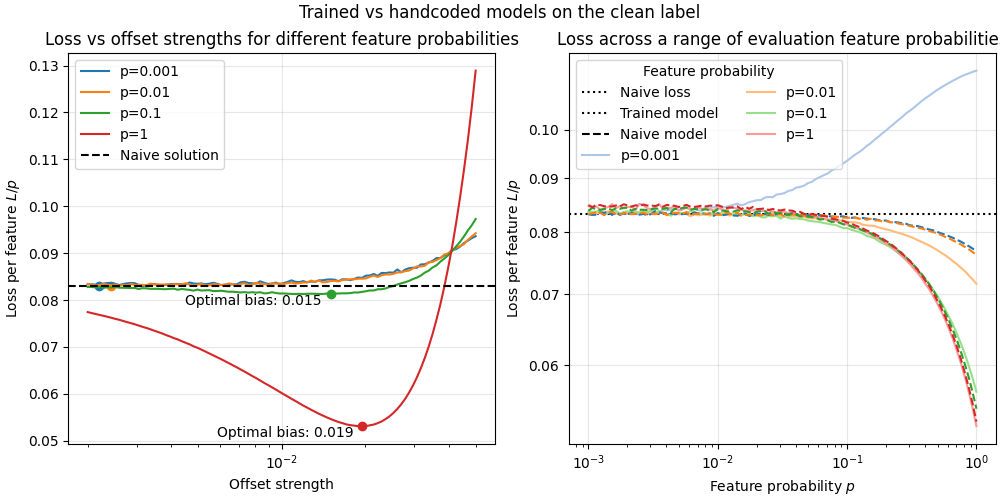
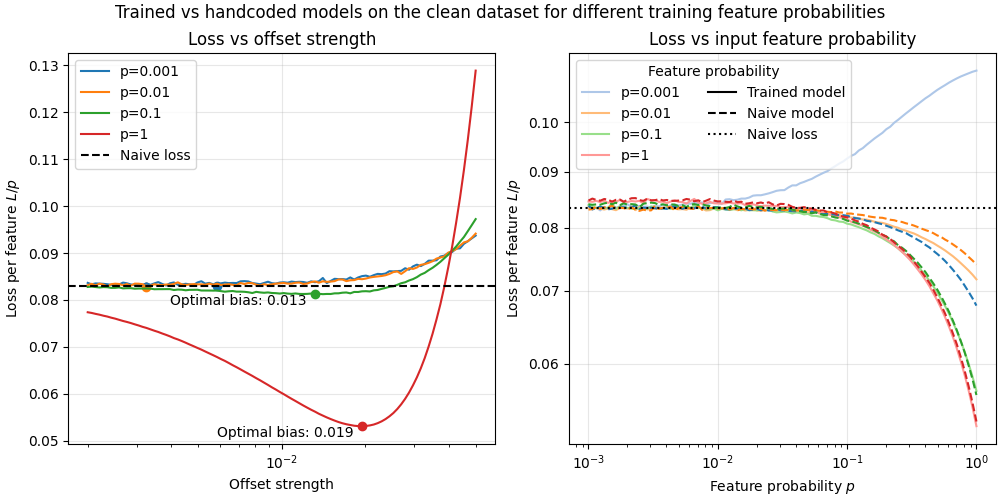
Fix nb 4 legend

diff --git a/paper_code/nb4_bias_strength.py b/paper_code/nb4_bias_strength.py
@@ -44,13 +44,13 @@ for bias_p, bias_color in zip(bias_ps, bias_colors):
         )
     optimal_bias_strengths[bias_p] = bias_strengths[opt_idx]
 
-ax1.axhline(0.083, color="k", ls="--", label="Naive solution")
+ax1.axhline(0.083, color="k", ls="--", label="Naive loss")
 ax1.legend()
 ax1.set_xlabel("Offset strength")
 ax1.set_ylabel("Loss per feature $L / p$")
 ax1.set_xscale("log")
 ax1.grid(True, alpha=0.3)
-ax1.set_title("Loss vs offset strengths for different feature probabilities")
+ax1.set_title("Loss vs offset strength")
 
 
 plot_ps = np.geomspace(0.001, 1, 100)
@@ -91,12 +91,12 @@ plot_loss_of_input_sparsity(
     ax=ax2,
 )
 ax2.legend().remove()
-ax2.axhline(y=0.0833, color="k", ls=":", label="Naive loss")
 ax2.plot([], [], color="k", ls="-", label="Trained model")
 ax2.plot([], [], color="k", ls="--", label="Naive model")
+ax2.axhline(y=0.0833, color="k", ls=":", label="Naive loss")
 ax2.legend(loc="upper left", ncols=2, title="Feature probability")
 ax2.get_yaxis().set_major_formatter(ticker.ScalarFormatter())
 ax2.grid(True, alpha=0.3)
-ax2.set_title("Loss across a range of evaluation feature probabilities")
-fig.suptitle("Trained vs handcoded models on the clean label")
+ax2.set_title("Loss vs input feature probability")
+fig.suptitle("Trained vs handcoded models on the clean dataset for different training feature probabilities")
 fig.savefig("plots/nb4_opt_offset_and_comparison.png")
